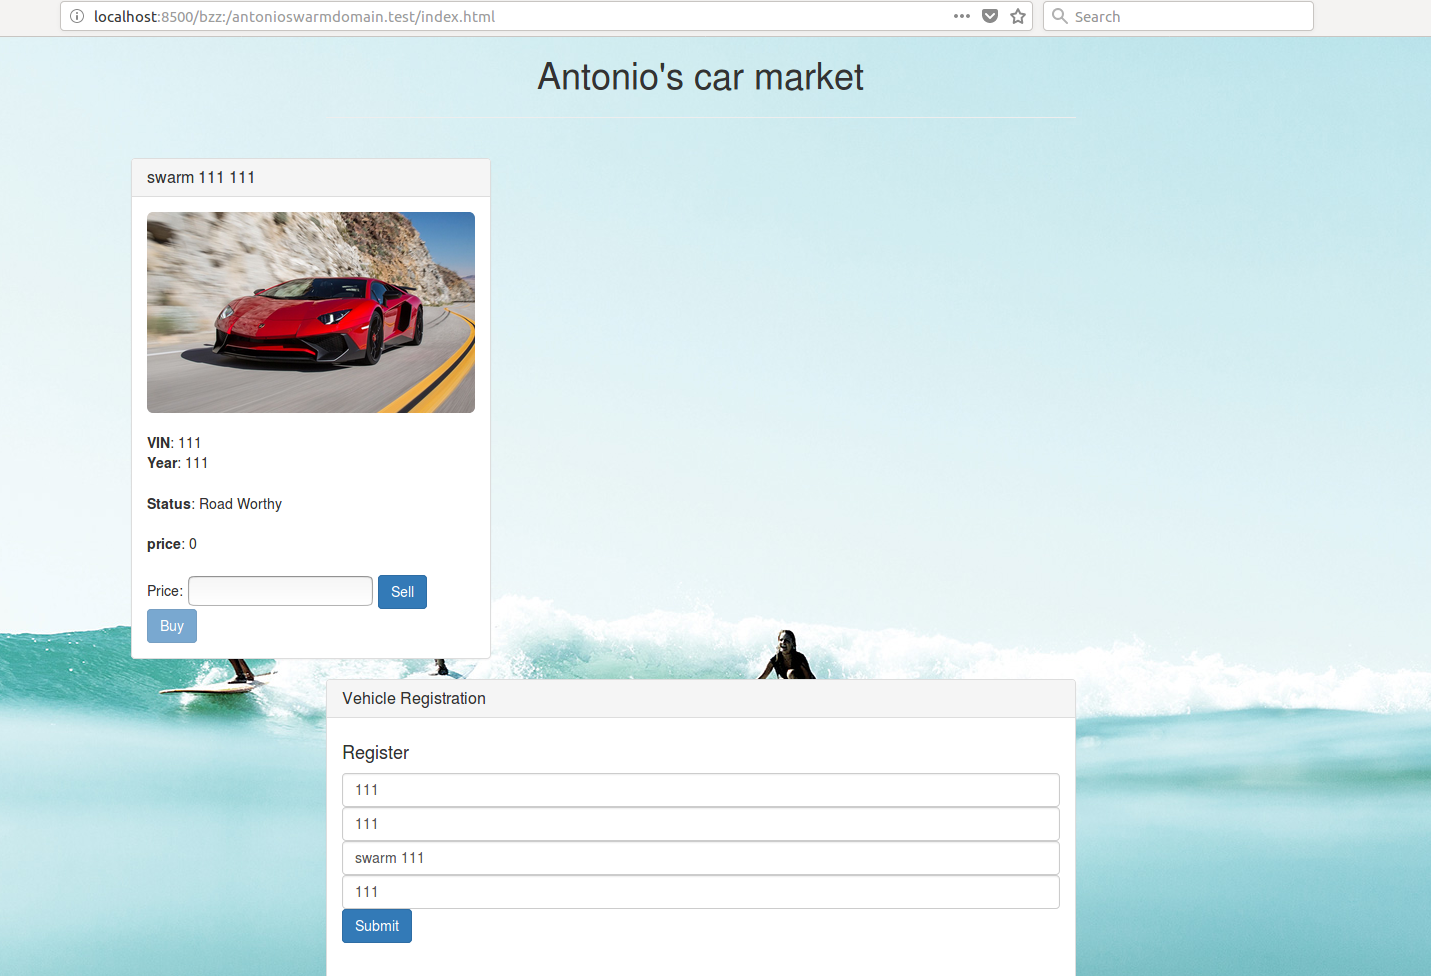
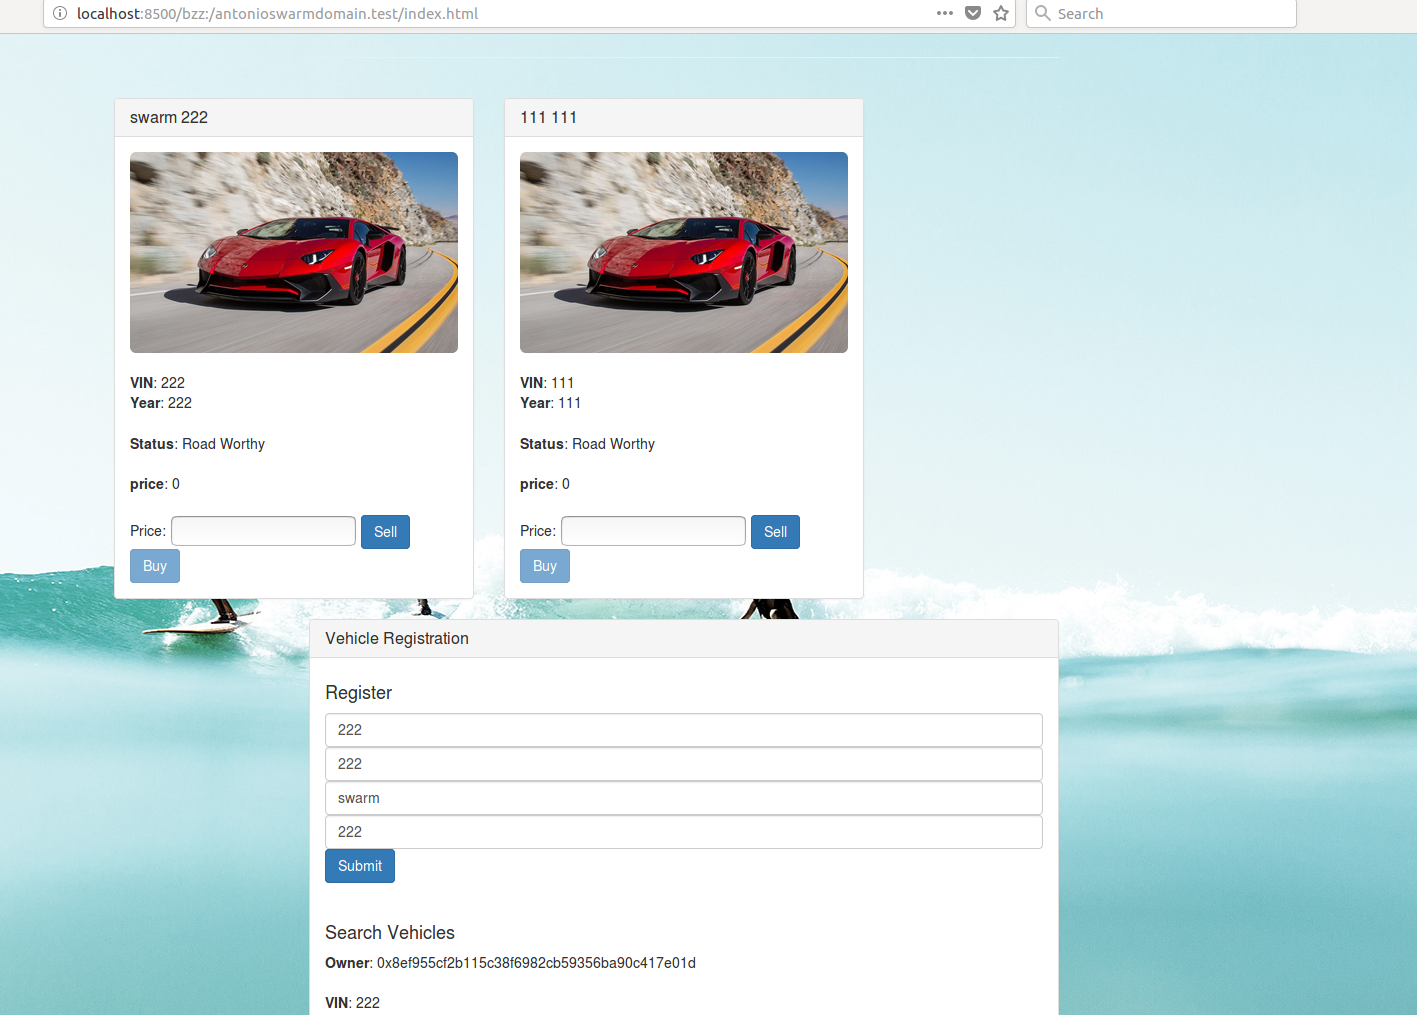
PEC2 ejercicio3

diff --git a/PEC2/ejercicio3/PEC2ejercicio3.md b/PEC2/ejercicio3/PEC2ejercicio3.md
@@ -85,5 +85,4 @@ El hash obtenido es:
 
 ####  8. Damos de alta un nuevo vehículo
 
-   ![img9](./images/alta1.png)
-   ![img10](./images/altafin.png)
+   ![img9](./images/altafin.png)
